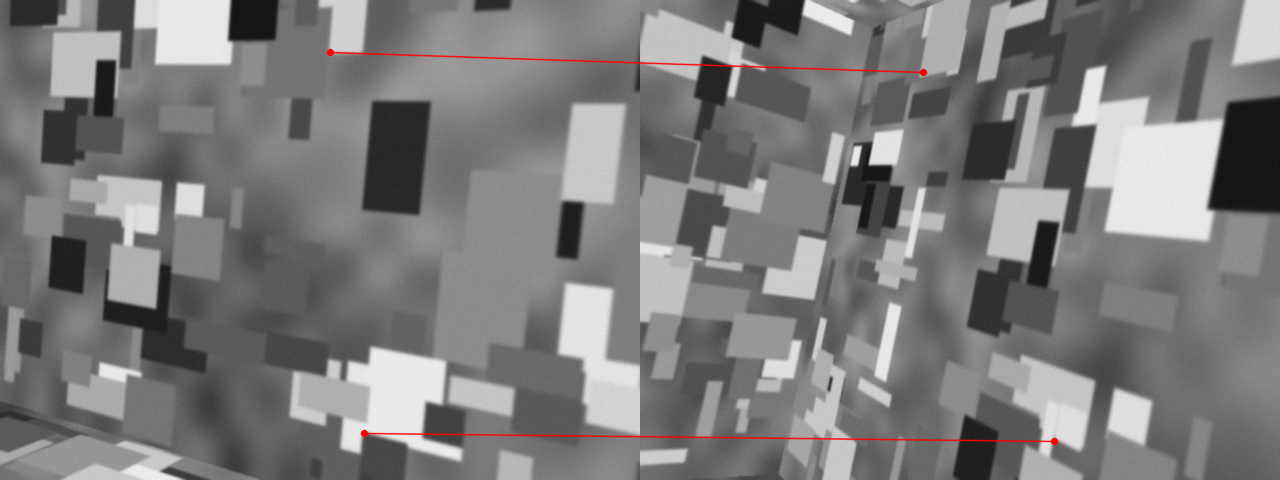
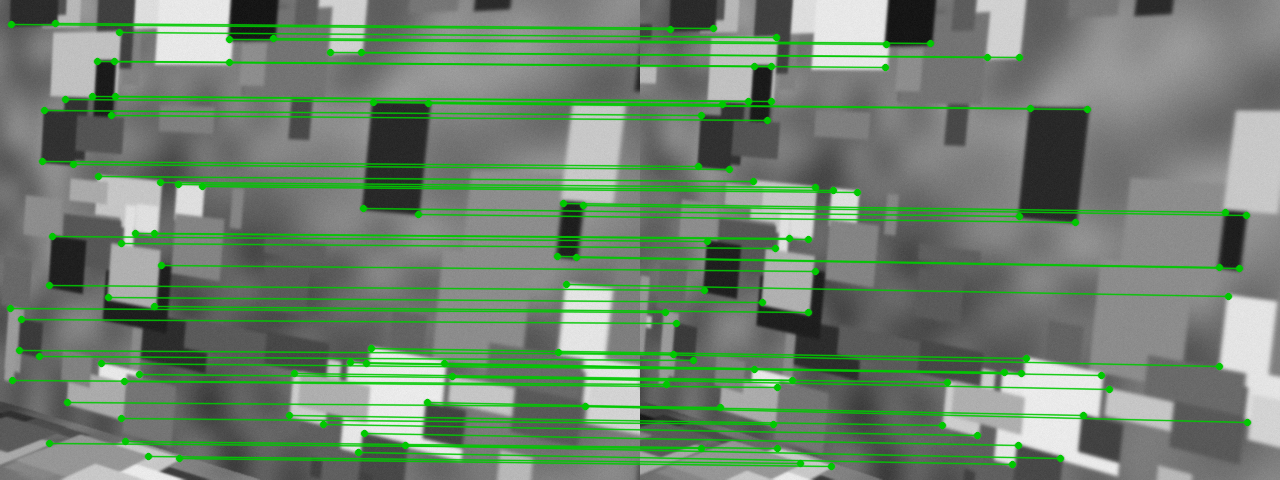
Etapa 22: de parejas a pistas (front-end con SuperPoint + LightGlue)

diff --git a/vio/pipeline.py b/vio/pipeline.py
@@ -59,7 +59,7 @@ class PipelineVio:
         cfgs: dict con los dicts de config "vio", "frontend", "msckf" y "triangulacion".
         calib_acc: (sesgo (3,), escala (3,)) del acelerómetro (etapa 7.2), o None para
             usar la medida tal cual.
-        frontend: el front-end ya creado (etapa 22: FrontEndLIghtGlue), o None para el de
+        frontend: el front-end ya creado (etapa 22: FrontEndLightGlue), o None para el de
             siempre, FAST + Lucas-Kanade (etapa 8).
         """
         self.K, self.dist = K, dist
@@ -67,7 +67,7 @@ class PipelineVio:
         self.t_d_ns = int(t_d_ns)
         self.cfgs = cfgs
         if frontend is None:
-            self.frontend = FrontEnd(K, dist, cfgs["frontend"])
+            frontend = FrontEnd(K, dist, cfgs["frontend"])
         self.frontend = frontend
         self.filtro = None
         self.reposo = []  # muestras (t, w, a) mientras se inicializa
